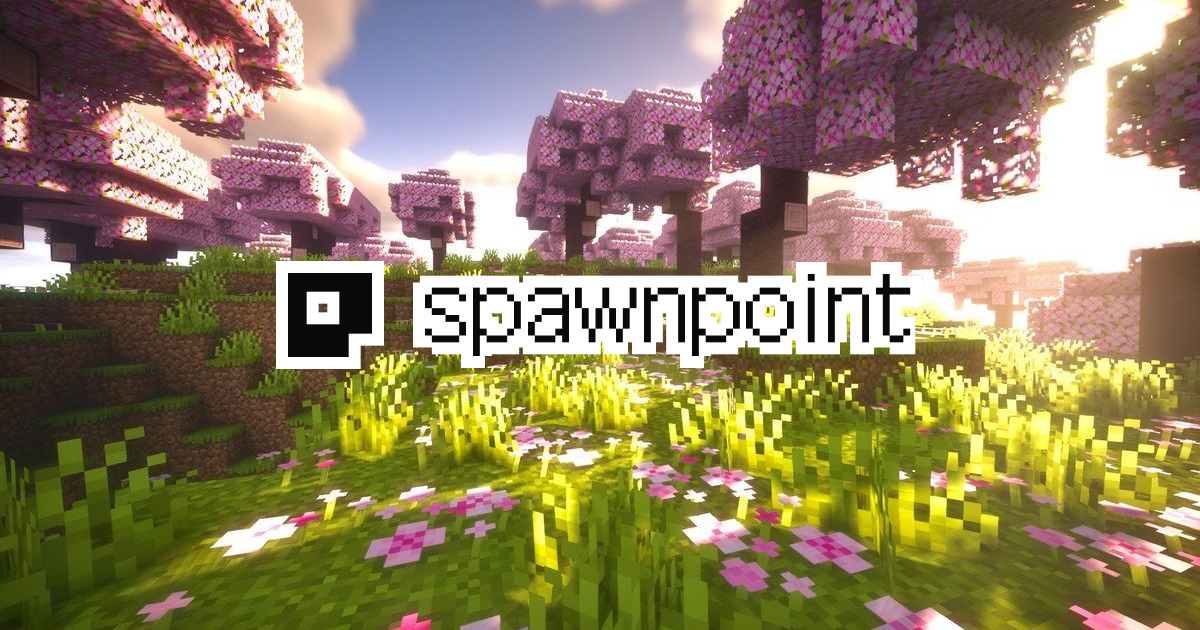
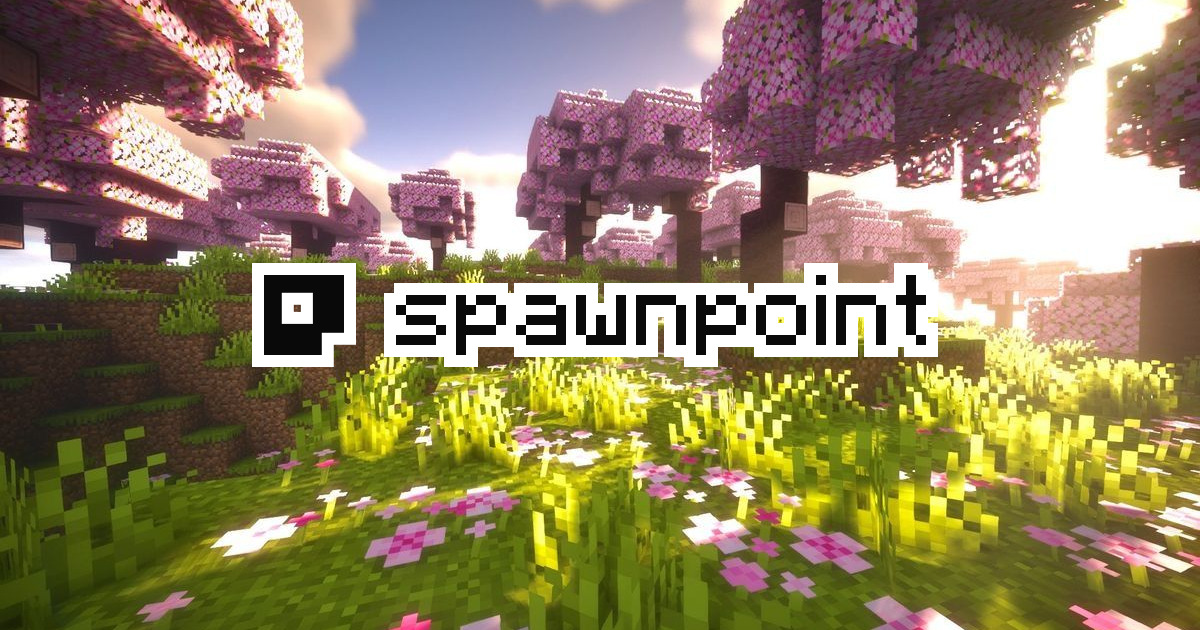
use Minecraft font for English social previews

Changed region(s): [[0.185, 0.3921, 0.8017, 0.6032]]

diff --git a/tests/minecraft-ascii-font.test.ts b/tests/minecraft-ascii-font.test.ts
@@ -1,0 +1,40 @@
+import crypto from "node:crypto";
+import path from "node:path";
+import sharp from "sharp";
+import { describe, expect, it } from "vitest";
+import {
+  loadMinecraftAsciiAtlas,
+  renderMinecraftAsciiText,
+} from "../scripts/minecraft-ascii-font.mjs";
+
+const clientPath = path.join(process.cwd(), "vendor", "clients", "stable-locale-fixed.epw");
+
+describe("Minecraft ASCII font", () => {
+  it("extracts the original 1.12 ASCII atlas from the base client", async () => {
+    const atlas = await loadMinecraftAsciiAtlas(clientPath);
+    const metadata = await sharp(atlas).metadata();
+    const digest = crypto.createHash("sha256").update(atlas).digest("hex");
+
+    expect(metadata).toMatchObject({ format: "png", width: 128, height: 128 });
[1 lines of base64/hex data omitted]
+  });
+
+  it("renders ASCII text with nearest-neighbor pixel edges", async () => {
+    const atlas = await loadMinecraftAsciiAtlas(clientPath);
+    const rendered = await renderMinecraftAsciiText(atlas, "spawnpoint", 82);
+    const { data, info } = await sharp(rendered).ensureAlpha().raw().toBuffer({ resolveWithObject: true });
+    const alphaValues = new Set(
+      Array.from({ length: info.width * info.height }, (_, index) => data[index * info.channels + 3]),
+    );
+
+    expect(info).toMatchObject({ width: 540, height: 80, channels: 4 });
+    expect([...alphaValues].sort((a, b) => a - b)).toEqual([0, 255]);
+  });
+
+  it("rejects characters outside the bundled ASCII atlas", async () => {
+    const atlas = await loadMinecraftAsciiAtlas(clientPath);
+    await expect(renderMinecraftAsciiText(atlas, "스폰포인트", 82)).rejects.toThrow(
+      "Minecraft ASCII atlas does not contain",
+    );
+  });
+});
